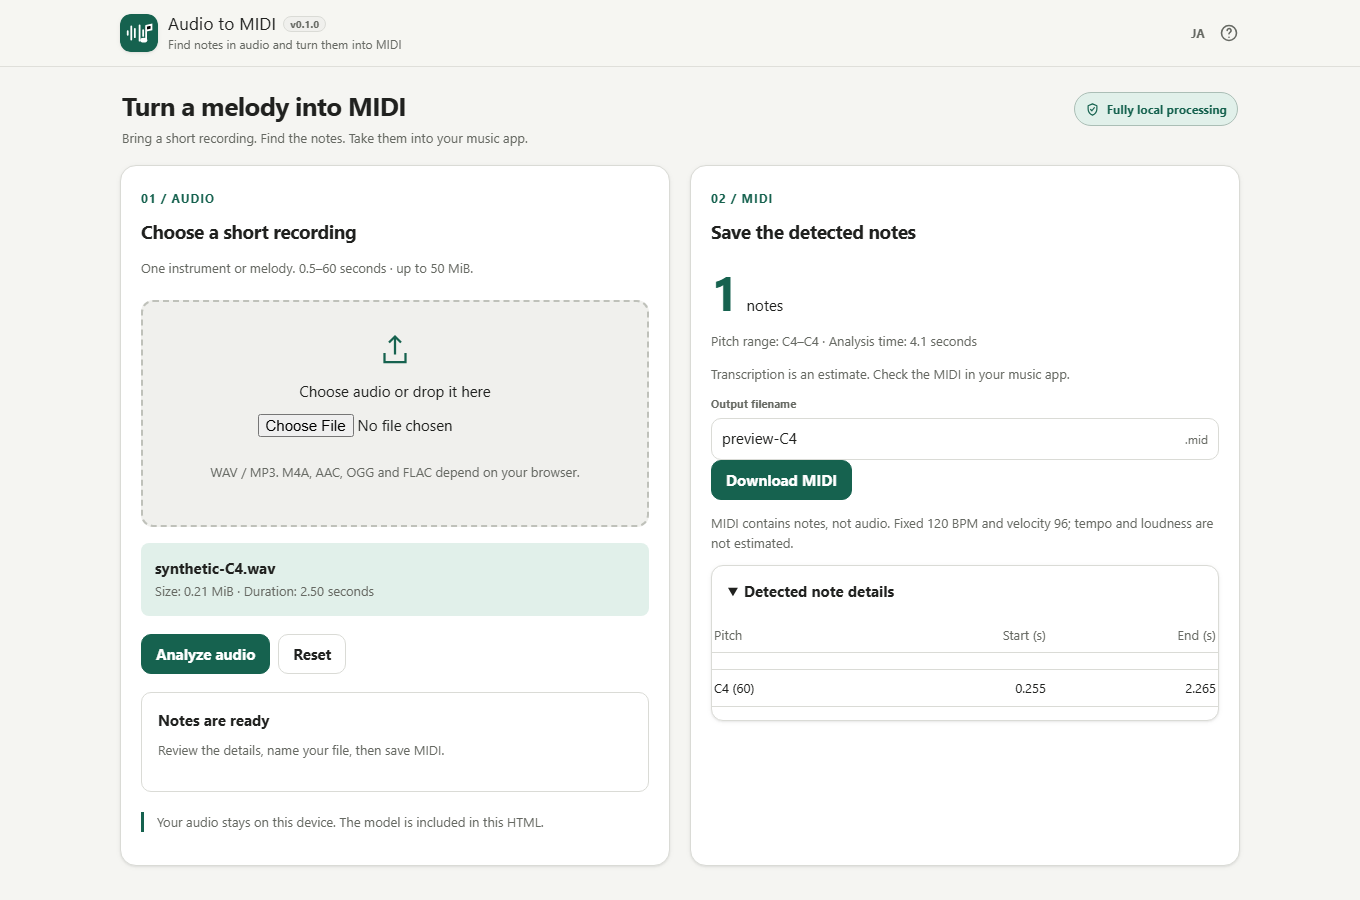
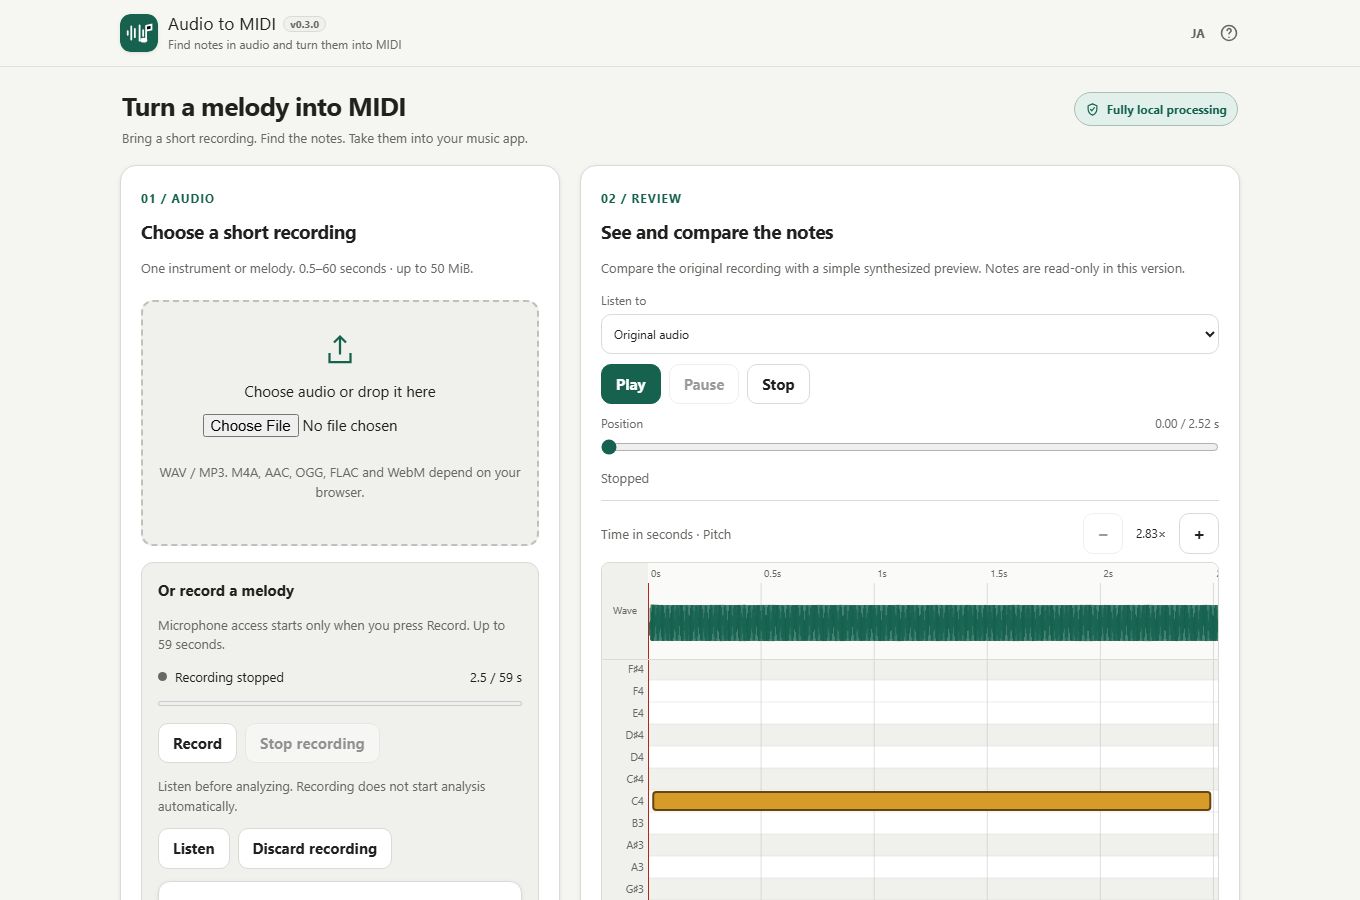
Document verified v0.3 recording and refresh preview screenshot

diff --git a/docs/VERIFICATION.md b/docs/VERIFICATION.md
@@ -1,4 +1,6 @@
-# v0.1 verification record
+# Verification record
+
+## v0.1
 
 This is a development milestone, not a claim that every v0.1 device gate is complete.
 
@@ -54,7 +56,7 @@ The first real Chromium run exposed TF.js 3.21 legacy regenerator using a Functi
 - PowerShell syntax/encoding, repository build, standalone CSP/integrity and self-extract/root restoration: PASS. Current readable HTML is about 1.15 MiB and compact HTML 1.06 MiB; model assets are unchanged.
 - Added CI tests use Chromium's native virtual microphone with a generated C4 WAV, native MediaRecorder encoding, actual complete-Blob decoding, explicit playback/inference, original-audio download/redecode, and independent MIDI readback. The initial implementation passed these tests at the runs linked below; no physical microphone claim is made.
 - Denied/missing/unsupported APIs and a delayed permission grant use controlled test injections. BFCache lifecycle tests remain synthetic persisted event dispatch, distinct from actual back/forward caching.
-- Commit `5c103cb`: [Windows build/offline run](https://github.com/ttomohisa/htmlapps-audio-to-midi/actions/runs/38895723598) passed 107 contracts, real model smoke and 19 browser cases (2 preview-only cases skipped); [ordinary HTTPS run](https://github.com/ttomohisa/htmlapps-audio-to-midi/actions/runs/38895723611) passed both file and native virtual-microphone flows. Added hidden-page pitch-reveal regression and final screenshot refresh are being verified on the follow-up commit.
+- Commit `5c103cb`: [Windows build/offline run](https://github.com/ttomohisa/htmlapps-audio-to-midi/actions/runs/38895723598) passed 107 contracts, real model smoke and 19 browser cases (2 preview-only cases skipped); [ordinary HTTPS run](https://github.com/ttomohisa/htmlapps-audio-to-midi/actions/runs/38895723611) passed both file and native virtual-microphone flows. The hidden-page pitch-reveal regression is verified on the follow-up commit below.
 - Physical Windows/Android/iOS microphone permissions, device-loss behavior, audible listening/touch and Safari/Firefox recording codecs remain NOT RUN.
 
 ### First native recording run
@@ -66,3 +68,15 @@ The recorded take also showed level attenuation under browser speech processing.
 ### Visual QA follow-up
 
 Actual JA/EN screenshots exposed a mobile hidden-page issue not covered by the first green run: notes analyzed on Input did not scroll into view when Notes opened. The review view now defers layout/pitch centering until its viewport is measurable, including a return to the same desktop width, and preserves scroll during ordinary tab round trips. Browser regressions check selected C4 visibility after tab navigation and desktop restoration.
+
+### Verified v0.3 implementation
+
+Code commit `5ac576895b79df8baebb0be2e2c2be43a642a556`:
+
+- [Windows standard build and offline browser CI](https://github.com/ttomohisa/htmlapps-audio-to-midi/actions/runs/38896757387): 108/108 contracts, actual model smoke and 19/19 browser cases passed; the 2 HTTPS-only cases are intentionally skipped in that job.
+- [Ordinary HTTPS preview](https://github.com/ttomohisa/htmlapps-audio-to-midi/actions/runs/38896757374): 2/2 passed. Delivered HTML matched the workflow build. Both file and native virtual-microphone flows completed after going offline, with no runtime HTTP requests or page errors.
+- Native MediaRecorder produced a 2.520-second synthetic C4 recording; independent decode measured 262 Hz over the middle second. MIDI readback contained pitch 60, start 0.022917 s, end 2.485417 s; displayed note times matched within 2 ms. The downloaded original recording reloaded successfully through the regular file path.
+- Both standalone variants recorded/decoded/analyzed/exported offline in Chromium. Controlled denial, missing microphone, unsupported MIME and insecure-context paths retained file fallback. Reset/discard cancellation, hidden stop, pending-permission input replacement and late-track release passed.
+- Input / Notes / Export tabs at 320/360/390 px, selected-note visibility after hidden analysis and desktop restoration, ordinary tab-roundtrip scroll preservation, and the existing bilingual help/reset scroll-lock regressions passed.
+- Independent source reviews found and resolved pending-permission replacement and hidden-page pitch-reveal issues. Focused rechecks passed.
+- Actual 1360×900 JA/EN and narrow screenshots were inspected. `assets/screenshot.png` is the English native-recording result from this HTTPS run. It uses only synthetic audio. Physical-device gates above remain NOT RUN.

diff --git a/README.ja.md b/README.ja.md
@@ -2,7 +2,7 @@
 
 Spotify Basic Pitchで短い録音から音符を検出し、端末内だけでMIDIへ変換します。
 
-![v0.1の実際のプレビュー。合成C4音声を端末内で解析しMIDIへ保存](assets/screenshot.png)
+![v0.3の実際のプレビュー。合成C4のマイク録音と検出された音符](assets/screenshot.png)
 
 ## 主な機能
 

diff --git a/README.md b/README.md
@@ -2,7 +2,7 @@
 
 Convert a short recording into MIDI using Spotify Basic Pitch, entirely on your device.
 
-![Actual v0.1 preview: synthetic C4 analyzed locally and exported as MIDI](assets/screenshot.png)
+![Actual v0.3 preview: a synthetic C4 microphone recording and its detected note](assets/screenshot.png)
 
 ## Features
 
